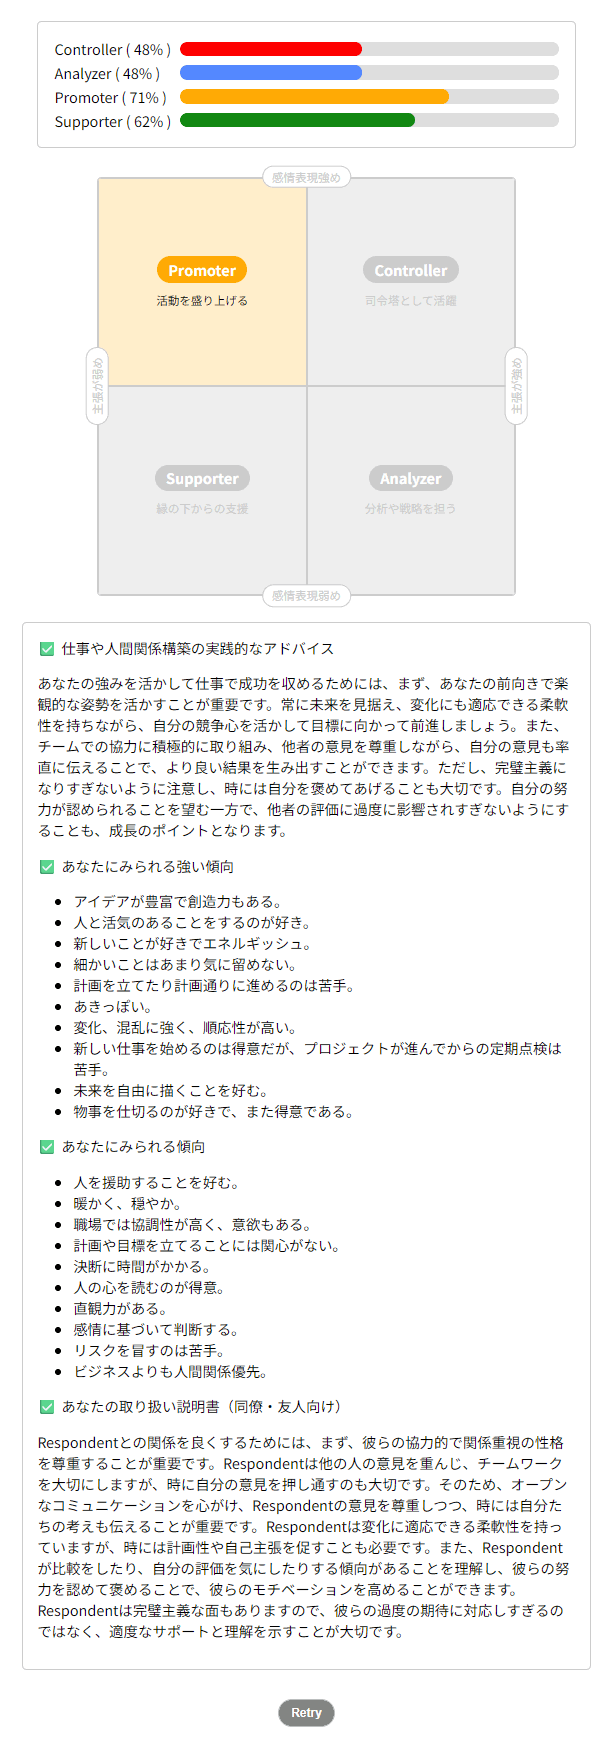
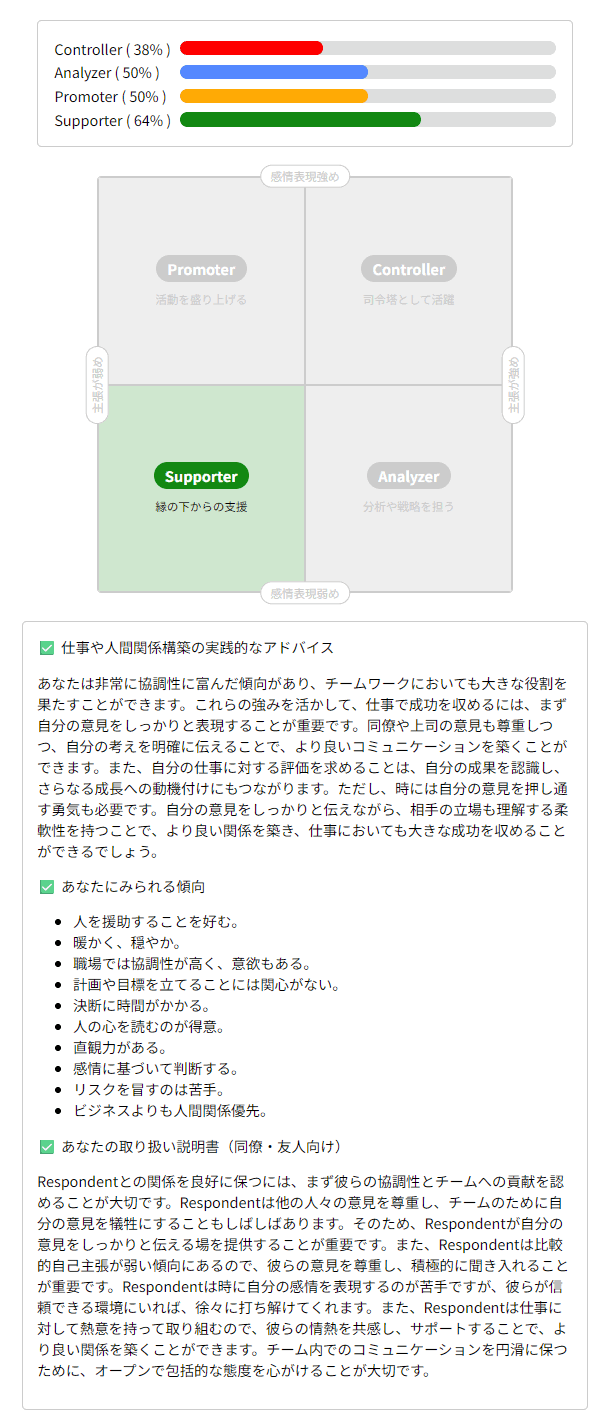
fixed

Changed region(s): [[0.0623, 0.0, 0.9344, 1.0], [0.5918, 0.1236, 0.7475, 0.2163], [0.8098, 0.1854, 0.8721, 0.309]]

diff --git a/pj-corridor.net/personalitytest/blog/readme.ja.md b/pj-corridor.net/personalitytest/blog/readme.ja.md
@@ -11,7 +11,7 @@ CAPS や DiSC は巷で流行の MBTI と同様、いわゆる疑似科学的な
 
 ちなみにこちらは私の CAPS 診断結果です。
 
-<img src='https://raw.githubusercontent.com/nakayama-kazuki/202x/main/pj-corridor.net/personalitytest/blog/sample.ja.png' />
+<img src='https://raw.githubusercontent.com/nakayama-kazuki/202x/main/pj-corridor.net/personalitytest/blog/sample.png' />
 
 アドバイスと取り扱い説明書は、設問回答を使った生成 AI による出力ですが「Respondent」という単語に違和感を覚えますね。このように生成 AI 連携アプリは高い表現力を得る一方で品質面のリスクが生じます。とはいえ、品質担保にかけるコストは趣味プログラミングの範囲に抑えたいところです。そこで、ルールベースの採点ロジックは deterministic に保ち、生成 AI の出力は補足的な文章に留めることでハルシネーションの影響範囲をコントロールしました。
 